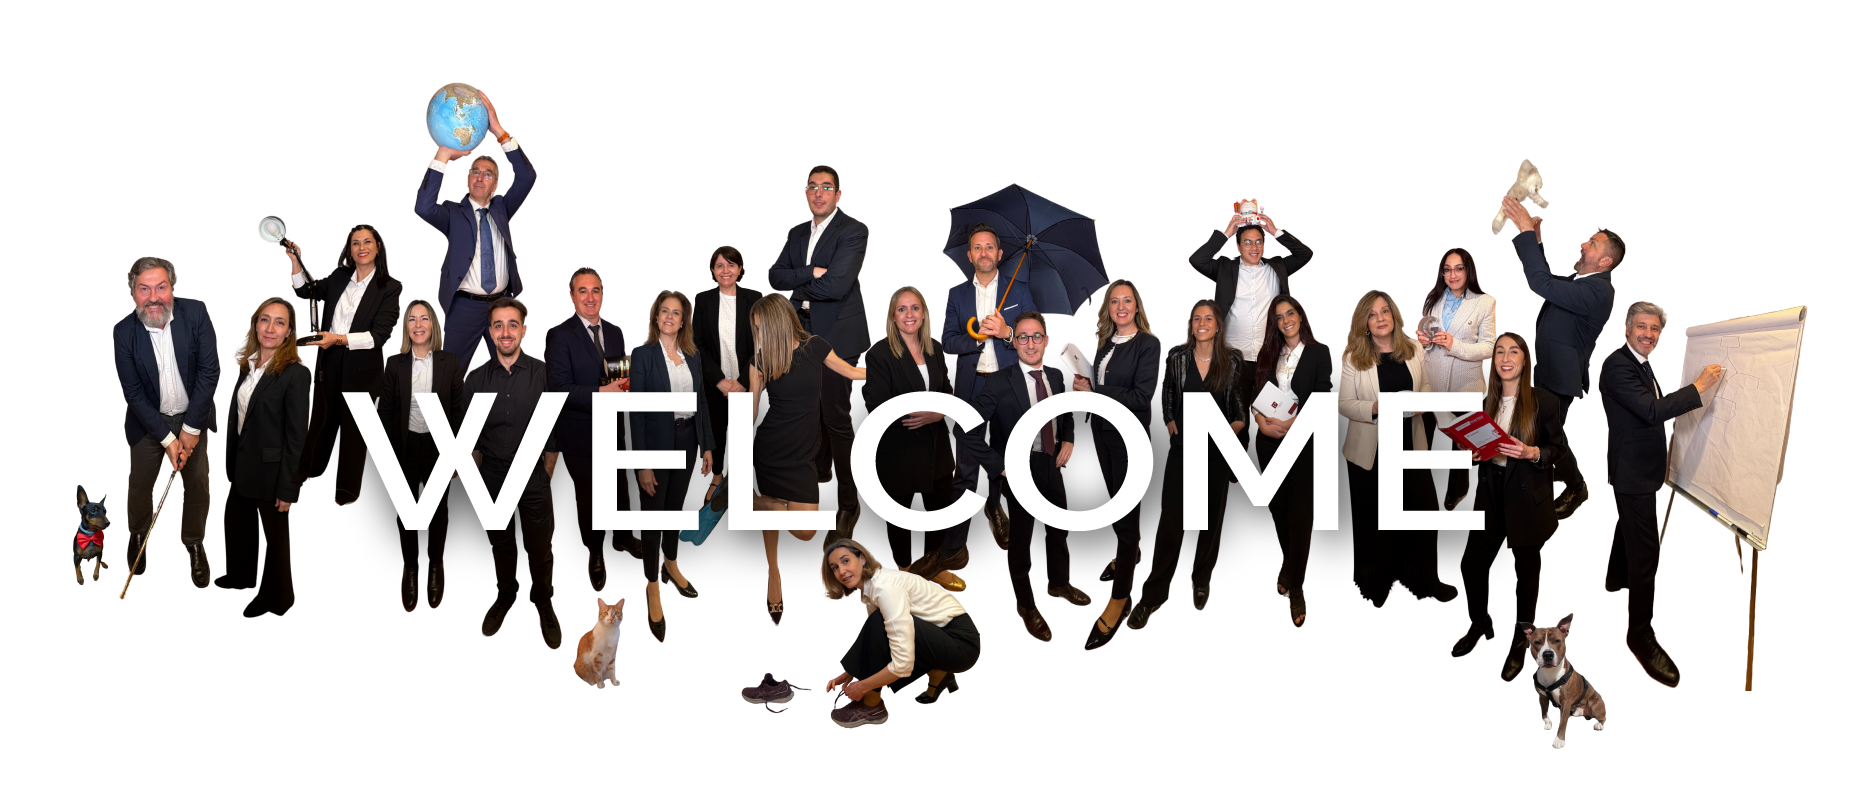
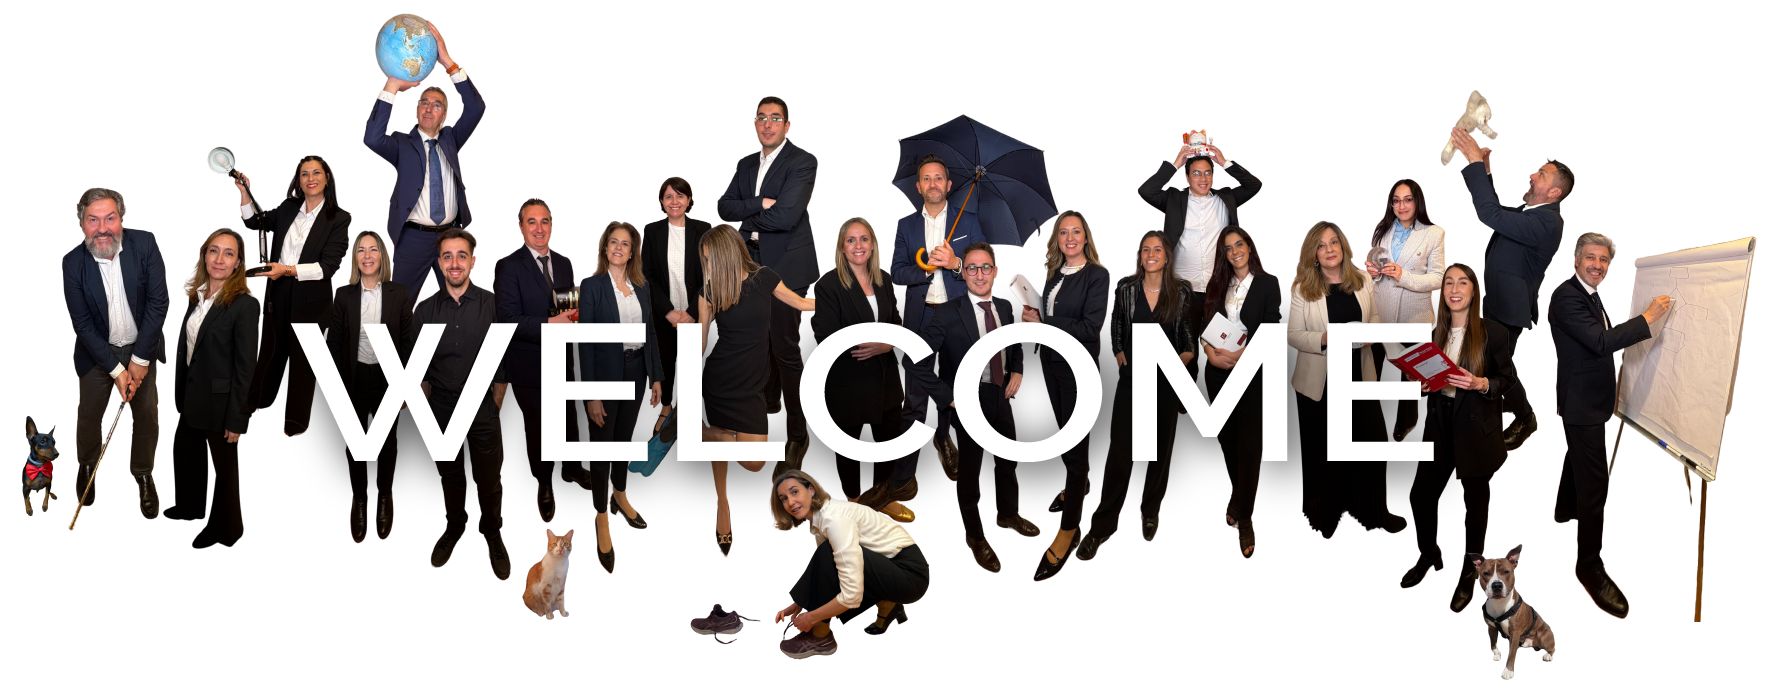
retoke inicio

diff --git a/js/submenu.js b/js/submenu.js
@@ -1,81 +1,34 @@
-// SUBMENÚ MEJORADO - Espera a que el contenido esté cargado
-function initSubmenu() {
-  console.log('🔧 Iniciando configuración de submenús...');
-  
-  const submenus = [
-    { itemId: "recursos-item", linkId: "recursos-link" },
-    { itemId: "servicios-item", linkId: "servicios-link" }
-  ];
+  document.addEventListener("DOMContentLoaded", function () {
+    const submenus = [
+      { itemId: "recursos-item", linkId: "recursos-link" },
+      { itemId: "servicios-item", linkId: "servicios-link" }
+    ];
 
-  let elementsFound = 0;
-  let totalElements = submenus.length * 2; // item + link para cada submenú
+    submenus.forEach(({ itemId, linkId }) => {
+      const item = document.getElementById(itemId);
+      const link = document.getElementById(linkId);
 
-  submenus.forEach(({ itemId, linkId }) => {
-    const item = document.getElementById(itemId);
-    const link = document.getElementById(linkId);
-
-    if (item && link) {
-      elementsFound += 2;
-      console.log(`✅ Submenú configurado: ${itemId}`);
-      
       link.addEventListener("click", function (e) {
         e.preventDefault();
 
         // Cierra todos los demás submenús abiertos
         submenus.forEach(({ itemId: otherId }) => {
           if (otherId !== itemId) {
-            const otherItem = document.getElementById(otherId);
-            if (otherItem) {
-              otherItem.classList.remove("open");
-            }
+            document.getElementById(otherId).classList.remove("open");
           }
         });
 
         // Alterna este submenú
         item.classList.toggle("open");
       });
-    } else {
-      console.warn(`⚠ No se encontraron elementos para: ${itemId} o ${linkId}`);
-    }
-  });
+    });
 
-  // Solo configurar el event listener global si encontramos al menos algunos elementos
-  if (elementsFound > 0) {
     // Cierra cualquier submenú si haces clic fuera
     document.addEventListener("click", function (e) {
       if (!e.target.closest(".has-submenu")) {
         submenus.forEach(({ itemId }) => {
-          const item = document.getElementById(itemId);
-          if (item) {
-            item.classList.remove("open");
-          }
+          document.getElementById(itemId).classList.remove("open");
         });
       }
     });
-    
-    console.log(`✅ Submenús inicializados: ${elementsFound}/${totalElements} elementos encontrados`);
-  } else {
-    console.warn('⚠ No se encontraron elementos de submenú, reintentando en 500ms...');
-    setTimeout(initSubmenu, 500);
-  }
-}
-
-// Función para intentar inicializar cuando esté listo
-function startSubmenuInit() {
-  if (document.readyState === 'loading') {
-    document.addEventListener('DOMContentLoaded', () => {
-      setTimeout(initSubmenu, 100); // Pequeño delay para asegurar que todo esté listo
-    });
-  } else {
-    setTimeout(initSubmenu, 100);
-  }
-}
-
-// Escuchar el evento personalizado de includes cargados
-document.addEventListener('includesLoaded', () => {
-  console.log('📡 Evento includesLoaded recibido, inicializando submenús...');
-  setTimeout(initSubmenu, 100);
-});
-
-// También intentar la inicialización normal
-startSubmenuInit();
+  });

diff --git a/js/footer.js b/js/footer.js
@@ -1,45 +1,19 @@
-// Animación del footer al hacer scroll (bidireccional) - VERSIÓN CORREGIDA
-function initFooterAnimation() {
-  const footer = document.querySelector('.footer');
-  
-  // Verificar que el footer existe antes de continuar
-  if (!footer) {
-    console.warn('⚠ Footer no encontrado, reintentando en 500ms...');
-    setTimeout(initFooterAnimation, 500);
-    return;
-  }
-
-  console.log('✅ Footer encontrado, inicializando animación');
-
-  const footerObserver = new IntersectionObserver((entries) => {
-    entries.forEach(entry => {
-      if (entry.isIntersecting) {
-        // El footer entra en vista - animar hacia arriba
-        footer.classList.add('animate');
-      } else {
-        // El footer sale de vista - animar hacia abajo
-        footer.classList.remove('animate');
-      }
+    // Animación del footer al hacer scroll (bidireccional)
+    const footer = document.querySelector('.footer');
+    
+    const footerObserver = new IntersectionObserver((entries) => {
+      entries.forEach(entry => {
+        if (entry.isIntersecting) {
+          // El footer entra en vista - animar hacia arriba
+          footer.classList.add('animate');
+        } else {
+          // El footer sale de vista - animar hacia abajo
+          footer.classList.remove('animate');
+        }
+      });
+    }, {
+      threshold: 0.2, // Se activa cuando el 20% del footer es visible
+      rootMargin: '0px 0px -50px 0px' // Se activa un poco antes de que sea completamente visible
     });
-  }, {
-    threshold: 0.2, // Se activa cuando el 20% del footer es visible
-    rootMargin: '0px 0px -50px 0px' // Se activa un poco antes de que sea completamente visible
-  });
-  
-  footerObserver.observe(footer);
-}
-
-// Inicializar cuando el DOM esté listo Y cuando los includes estén cargados
-function startFooterInit() {
-  if (document.readyState === 'loading') {
-    document.addEventListener('DOMContentLoaded', initFooterAnimation);
-  } else {
-    initFooterAnimation();
-  }
-}
-
-// Escuchar el evento de includes cargados
-document.addEventListener('includesLoaded', initFooterAnimation);
-
-// También intentar inicializar de forma normal
-startFooterInit();
+    
+    footerObserver.observe(footer);

diff --git a/js/includes.js b/js/includes.js
@@ -154,16 +154,16 @@ class DelyserlIncludes {
           </div>
 
           <div class="footer-social">
-            <a href="https://www.instagram.com/delyserabogados_/" class="social-icon instagram" title="Instagram">
+            <a href="#" class="social-icon instagram" title="Instagram">
               <i class="ph ph-instagram-logo"></i>
             </a>
-            <a href="https://x.com/DELYSERabogados" class="social-icon twitter" title="Twitter/X">
+            <a href="#" class="social-icon twitter" title="Twitter/X">
               <i class="ph ph-x-logo"></i>
             </a>
-            <a href="https://www.linkedin.com/company/delyserabogados/posts/?feedView=all&viewAsMember=true" class="social-icon linkedin" title="LinkedIn">
+            <a href="#" class="social-icon linkedin" title="LinkedIn">
               <i class="ph ph-linkedin-logo"></i>
             </a>
-            <a href="https://www.facebook.com/delyserabogadosslp#" class="social-icon facebook" title="Facebook">
+            <a href="#" class="social-icon facebook" title="Facebook">
               <i class="ph ph-facebook-logo"></i>
             </a>
             <a href="https://wa.me/34681277466?text=Hola,%20me%20gustar%C3%ADa%20obtener%20informaci%C3%B3n%20sobre%20sus%20servicios%20legales." class="social-icon whatsapp" title="WhatsApp" target="_blank" rel="noopener noreferrer">

diff --git a/index.html b/index.html
@@ -32,18 +32,19 @@
  <div data-include="header"></div>
 
   <main>  
-        <br><br>
-        <!-- Contenedor para centrar la imagen de portada -->
-        <section class="portada-container fade-in-up">
-            <img loading="lazy" src="img/img-index/img-inicio.png" alt="Equipo de Delyser Abogados" id="imagen-portada">
-        </section>
-
-        <br><br><br><br>
-
-        <h1 class="fade-in-up delay-4">Delyser Abogados</h1>
+        <br><br><br><br><br><br>
+       
+        <h1 class="fade-in-up delay-4">DELYSER ABOGADOS</h1>
         <div class="divider-dot-center fade-in-up">
             <div class="dot"></div>
         </div>
+
+
+
+ <!-- Contenedor para centrar la imagen de portada -->
+        <section class="portada-container fade-in-up">
+            <img loading="lazy" src="img/img-index/img-inicio.png" alt="Equipo de Delyser Abogados" id="imagen-portada">
+        </section>
         <br><br><br><br><br><br><br><br><br><br><br><br><br><br><br><br>
 
         <!-- Aquí puedes agregar más contenido de la página -->

diff --git a/equipo.html b/equipo.html
@@ -34,7 +34,7 @@
   <main>
     <!-- Sección de Socios -->
     <section class="socios-section">
-      <h1 class="socios-title">Socios</h1>
+      <h1 class="socios-title fade-in-up delay-3">Socios</h1>
     <div class="divider-dot-center fade-in-up delay 4">
         <div class="dot"></div>
     </div>
@@ -42,7 +42,7 @@
     <br><br><br><br><br><br><br><br><br><br><br><br><br><br><br>
       <div class="team-grid">
         <!-- José Luis Gómez -->
-        <div class="team-card">
+        <div class="team-card" id="jose-luis">
           <div class="member-photo">
             <img src="img/img-index/equipo/jlg-team.webp" alt="José Luis Gómez" onerror="this.style.display='none'; this.nextElementSibling.style.display='block';">
             <div class="photo-placeholder" style="display: none;">Foto del socio</div>

diff --git a/css/pages/index.css b/css/pages/index.css
@@ -70,7 +70,7 @@
   display: flex;
   justify-content: center;
   align-items: center;
-  padding: var(--spacing-md) 0;
+  /* padding: var(--spacing-sm) 0; */
   position: relative;
   z-index: 3;
 }
@@ -78,7 +78,6 @@
 #imagen-portada {
   max-width: 90%;
   height: auto;
-  border-radius: 8px;
   transform: translateY(50px);
   opacity: 0;
   animation: fadeInUp 1.2s ease-out 0.5s forwards;
@@ -112,7 +111,7 @@
 }
 
 .presentacion img {
-  width: 400px;
+  width: 325px;
   height: auto;
 }
 
@@ -393,6 +392,7 @@
 .slider-animated .slider-track {
   transition: transform 0.6s cubic-bezier(0.25, 0.46, 0.45, 0.94);
 }
+
 
 /* ===========================================
    ÁREAS DE ESPECIALIZACIÓN

diff --git a/servicios/fiscal.html b/servicios/fiscal.html
@@ -202,6 +202,7 @@
 <script src="../js/btn-scroll.js"></script>
 <script src="../js/footer.js"></script>
 <script src="../js/scroll-animations2.js"></script>
+<script src="../js/slider.js"></script>
 <script src="../js/submenu.js"></script>
 <script src="../js/smooth-scroll.js"></script>
 <script src="../js/legal-cards.js"></script>

diff --git a/servicios/legal.html b/servicios/legal.html
@@ -238,6 +238,7 @@
 <script src="../js/btn-scroll.js"></script>
 <script src="../js/footer.js"></script>
 <script src="../js/scroll-animations2.js"></script>
+<script src="../js/slider.js"></script>
 <script src="../js/submenu.js"></script>
 <script src="../js/smooth-scroll.js"></script>
 <script src="../js/legal-cards.js"></script>

diff --git a/servicios/clinicas.html b/servicios/clinicas.html
@@ -124,6 +124,7 @@
 <script src="../js/btn-scroll.js"></script>
 <script src="../js/footer.js"></script>
 <script src="../js/scroll-animations2.js"></script>
+<script src="../js/slider.js"></script>
 <script src="../js/submenu.js"></script>
 <script src="../js/smooth-scroll.js"></script>
 <script src="../js/includes.js"></script> 

diff --git a/servicios/compliance.html b/servicios/compliance.html
@@ -124,6 +124,7 @@
 <script src="../js/btn-scroll.js"></script>
 <script src="../js/footer.js"></script>
 <script src="../js/scroll-animations2.js"></script>
+<script src="../js/slider.js"></script>
 <script src="../js/submenu.js"></script>
 <script src="../js/smooth-scroll.js"></script>
 <script src="../js/includes.js"></script> 

diff --git a/servicios/corporate.html b/servicios/corporate.html
@@ -144,6 +144,7 @@
 <script src="../js/btn-scroll.js"></script>
 <script src="../js/footer.js"></script>
 <script src="../js/scroll-animations2.js"></script>
+<script src="../js/slider.js"></script>
 <script src="../js/submenu.js"></script>
 <script src="../js/smooth-scroll.js"></script>
 <script src="../js/includes.js"></script> 
